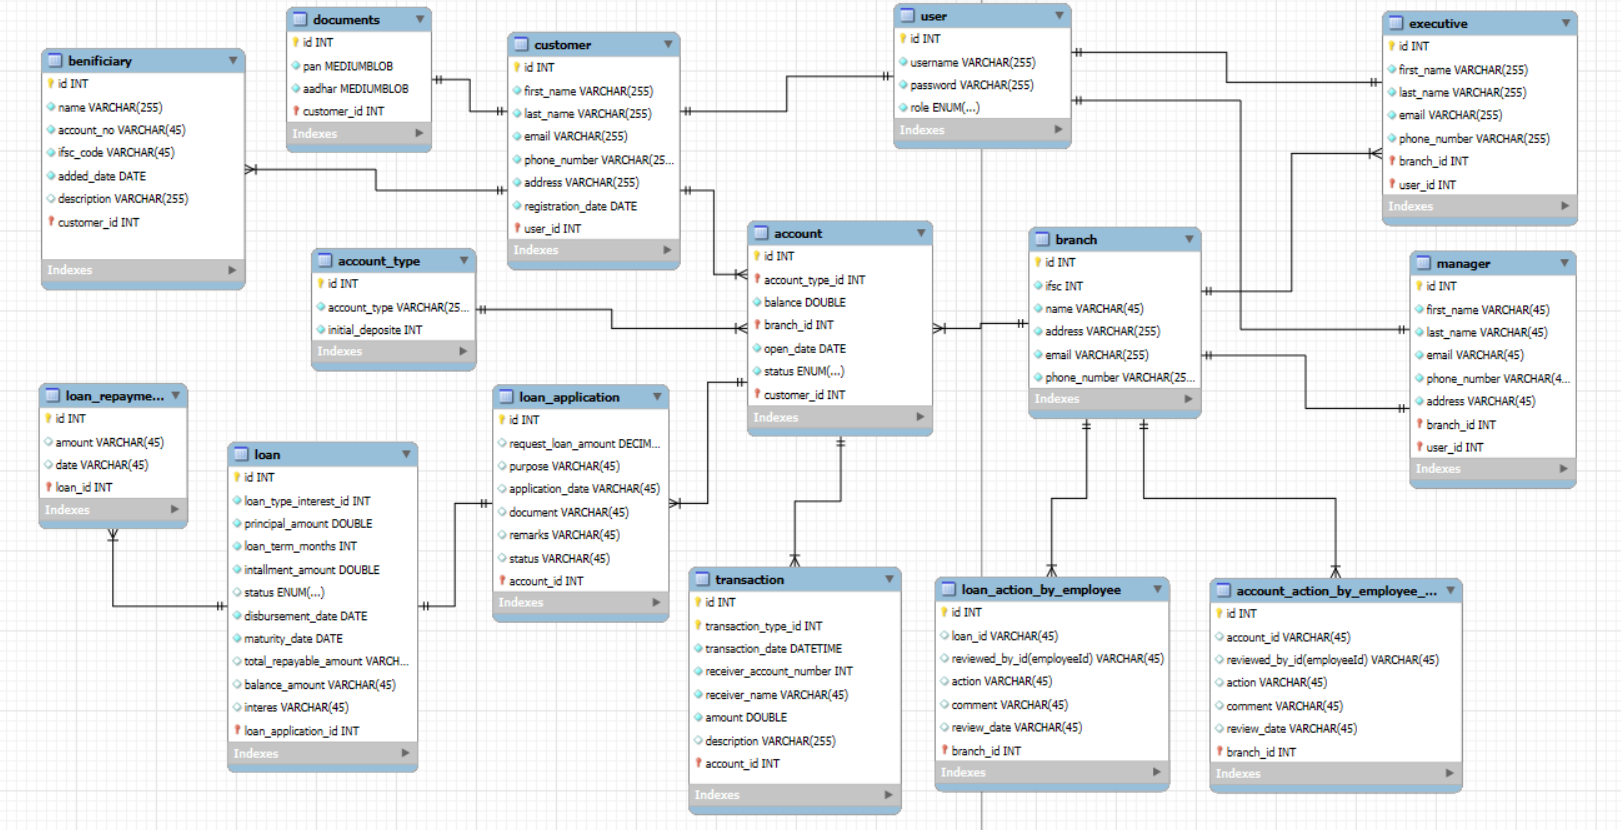
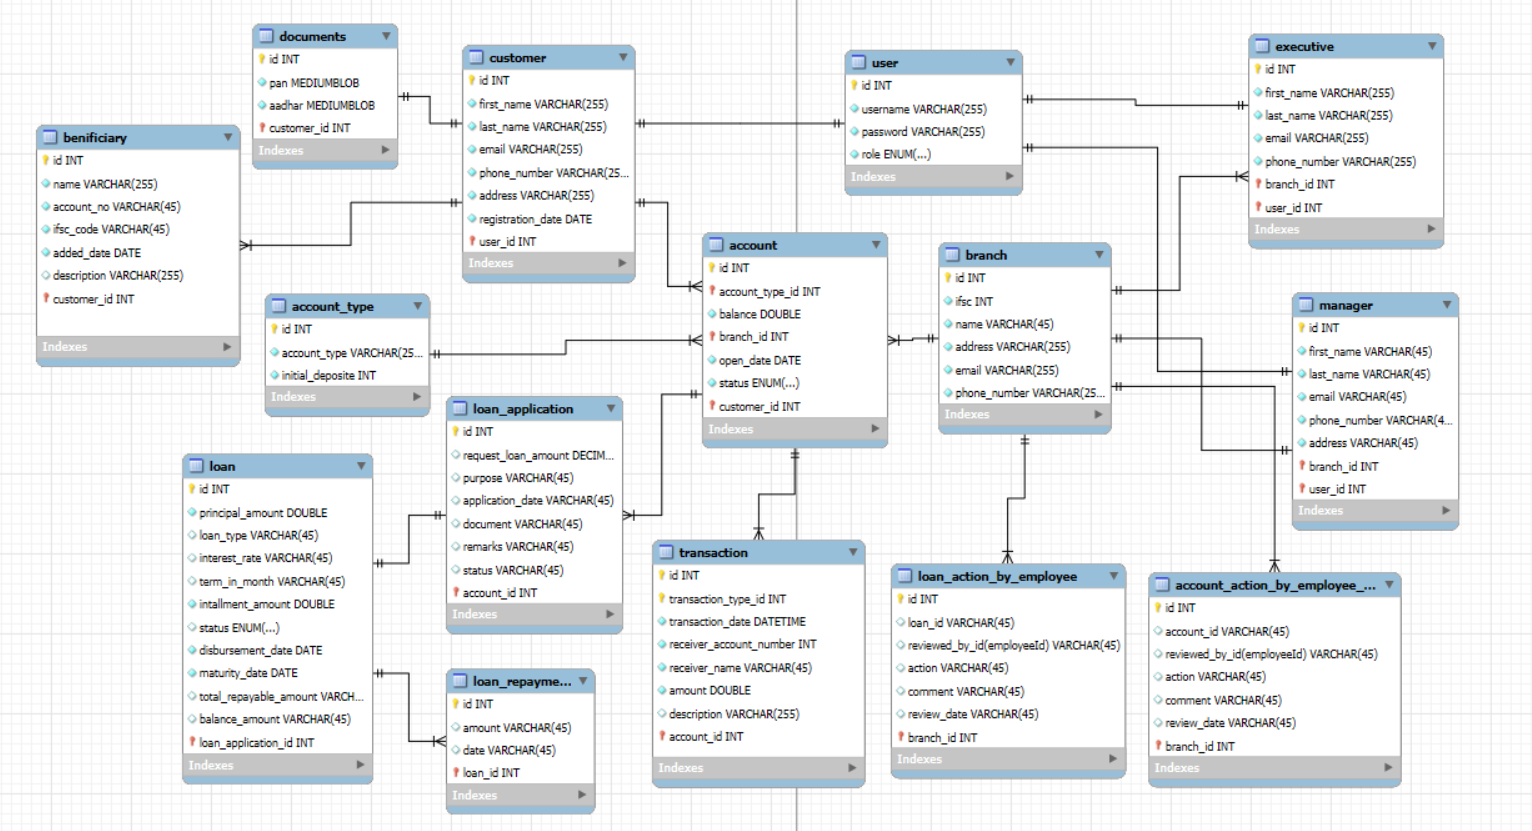
loan-updated

diff --git a/bankDemo/src/main/java/com/springboot/bankDemo/model/Loan.java b/bankDemo/src/main/java/com/springboot/bankDemo/model/Loan.java
@@ -4,6 +4,7 @@ import java.math.BigDecimal;
 import java.time.LocalDate;
 
 import com.springboot.bankDemo.enums.LoanStatus;
+import com.springboot.bankDemo.enums.LoanType;
 
 import jakarta.persistence.Column;
 import jakarta.persistence.Entity;
@@ -24,19 +25,22 @@ public class Loan {
 	private int id;
 	@Column(name = "principal_amount", nullable = false)
 	private BigDecimal principalAmount;
+	@Enumerated(EnumType.STRING)
+	@Column(name = "loan_type", nullable = false)
+	private LoanType loanType;
+	@Column(name = "interest_rate", nullable = false)
+	private BigDecimal interestRate;
+	@Enumerated(EnumType.STRING)
+	@Column(nullable = false)
+	private LoanStatus status;
+	@Column(name = "term_in_month", nullable = false)
+	private int termInMonth;
 	@Column(name = "total_repayable_amount", nullable = false)
 	private BigDecimal totalRepayableAmount;
 	@Column(name = "emi_amount", nullable = false)
 	private BigDecimal emiAmount;
-	@ManyToOne(optional = false)
-	private LoanType loanType;
-	@Enumerated(EnumType.STRING)
-	@Column(nullable = false)
-	private LoanStatus status;
 	@Column(name = "balance_amount", nullable = false)
 	private BigDecimal balanceAmount;
-	@Column(name = "term_in_month", nullable = false)
-	private int termInMonth;
 	@Column(name = "start_date", nullable = false)
 	private LocalDate startDate;
 	@Column(name = "end_date", nullable = false)
@@ -56,6 +60,30 @@ public class Loan {
 	public void setPrincipalAmount(BigDecimal principalAmount) {
 		this.principalAmount = principalAmount;
 	}
+	public LoanType getLoanType() {
+		return loanType;
+	}
+	public void setLoanType(LoanType loanType) {
+		this.loanType = loanType;
+	}
+	public BigDecimal getInterestRate() {
+		return interestRate;
+	}
+	public void setInterestRate(BigDecimal interestRate) {
+		this.interestRate = interestRate;
+	}
+	public LoanStatus getStatus() {
+		return status;
+	}
+	public void setStatus(LoanStatus status) {
+		this.status = status;
+	}
+	public int getTermInMonth() {
+		return termInMonth;
+	}
+	public void setTermInMonth(int termInMonth) {
+		this.termInMonth = termInMonth;
+	}
 	public BigDecimal getTotalRepayableAmount() {
 		return totalRepayableAmount;
 	}
@@ -68,29 +96,11 @@ public class Loan {
 	public void setEmiAmount(BigDecimal emiAmount) {
 		this.emiAmount = emiAmount;
 	}
-	public LoanType getLoanType() {
-		return loanType;
-	}
-	public void setLoanType(LoanType loanType) {
-		this.loanType = loanType;
-	}
-	public LoanStatus getStatus() {
-		return status;
-	}
-	public void setStatus(LoanStatus status) {
-		this.status = status;
-	}
 	public BigDecimal getBalanceAmount() {
 		return balanceAmount;
 	}
 	public void setBalanceAmount(BigDecimal balanceAmount) {
 		this.balanceAmount = balanceAmount;
-	}
-	public int getTermInMonth() {
-		return termInMonth;
-	}
-	public void setTermInMonth(int termInMonth) {
-		this.termInMonth = termInMonth;
 	}
 	public LocalDate getStartDate() {
 		return startDate;

diff --git a/bankDemo/src/main/java/com/springboot/bankDemo/model/LoanApplication.java b/bankDemo/src/main/java/com/springboot/bankDemo/model/LoanApplication.java
@@ -4,6 +4,7 @@ import java.math.BigDecimal;
 import java.time.LocalDate;
 
 import com.springboot.bankDemo.enums.LoanApplicationStatus;
+import com.springboot.bankDemo.enums.LoanType;
 
 import jakarta.persistence.Column;
 import jakarta.persistence.Entity;
@@ -24,7 +25,8 @@ public class LoanApplication {
 	private int id;
 	@Column(name = "required_loan_amount", nullable = false)
 	private BigDecimal requiredLoanAmount;
-	@ManyToOne(optional = false)
+	@Enumerated(EnumType.STRING)
+	@Column(name = "loan_type", nullable = false)
 	private LoanType loanType;
 	@Column(nullable = false)
 	@Enumerated(EnumType.STRING)
@@ -38,21 +40,53 @@ public class LoanApplication {
 	@ManyToOne(optional = false)
 	private Account account;
 	
-	public int getId() { return id; }
-	public void setId(int id) { this.id = id; }
-	public BigDecimal getRequiredLoanAmount() { return requiredLoanAmount; }
-	public void setRequiredLoanAmount(BigDecimal requiredLoanAmount) { this.requiredLoanAmount = requiredLoanAmount; }
-	public LoanType getLoanType() { return loanType; }
-	public void setLoanType(LoanType loanType) { this.loanType = loanType; }
-	public LoanApplicationStatus getStatus() { return status; }
-	public void setStatus(LoanApplicationStatus status) { this.status = status; }
-	public String getRemark() { return remark; }
-	public void setRemark(String remark) { this.remark = remark; }
-	public String getDocument() { return document; }
-	public void setDocument(String document) { this.document = document; }
-	public LocalDate getApplicationDate() { return applicationDate; }
-	public void setApplicationDate(LocalDate applicationDate) { this.applicationDate = applicationDate; }
-	public Account getAccount() { return account; }
-	public void setAccount(Account account) { this.account = account; }
-	
+	public int getId() {
+		return id;
+	}
+	public void setId(int id) {
+		this.id = id;
+	}
+	public BigDecimal getRequiredLoanAmount() {
+		return requiredLoanAmount;
+	}
+	public void setRequiredLoanAmount(BigDecimal requiredLoanAmount) {
+		this.requiredLoanAmount = requiredLoanAmount;
+	}
+	public LoanType getLoanType() {
+		return loanType;
+	}
+	public void setLoanType(LoanType loanType) {
+		this.loanType = loanType;
+	}
+	public LoanApplicationStatus getStatus() {
+		return status;
+	}
+	public void setStatus(LoanApplicationStatus status) {
+		this.status = status;
+	}
+	public String getRemark() {
+		return remark;
+	}
+	public void setRemark(String remark) {
+		this.remark = remark;
+	}
+	public String getDocument() {
+		return document;
+	}
+	public void setDocument(String document) {
+		this.document = document;
+	}
+	public LocalDate getApplicationDate() {
+		return applicationDate;
+	}
+	public void setApplicationDate(LocalDate applicationDate) {
+		this.applicationDate = applicationDate;
+	}
+	public Account getAccount() {
+		return account;
+	}
+	public void setAccount(Account account) {
+		this.account = account;
+	}
+		
 }

diff --git a/bankDemo/src/main/java/com/springboot/bankDemo/service/LoanApplicationService.java b/bankDemo/src/main/java/com/springboot/bankDemo/service/LoanApplicationService.java
@@ -1,0 +1,59 @@
+package com.springboot.bankDemo.service;
+
+import java.time.LocalDate;
+import java.util.Arrays;
+import java.util.List;
+
+import org.springframework.stereotype.Service;
+
+import com.springboot.bankDemo.enums.LoanApplicationStatus;
+import com.springboot.bankDemo.enums.LoanType;
+import com.springboot.bankDemo.model.LoanApplication;
+import com.springboot.bankDemo.repository.LoanApplicationRepository;
+
+@Service
+public class LoanApplicationService {
+
+	private LoanApplicationRepository loanApplicationRepository;
+
+	public LoanApplicationService(LoanApplicationRepository loanApplicationRepository) {
+		this.loanApplicationRepository = loanApplicationRepository;
+	}
+	
+	// post loan application
+	public LoanApplication postLoanApplication(LoanApplication loanApplication) {
+		loanApplication.setStatus(LoanApplicationStatus.PENDING);
+		loanApplication.setApplicationDate(LocalDate.now());
+		return loanApplicationRepository.save(loanApplication);
+	}
+	
+	// change loan application status - cancelled by customer
+	public LoanApplication putLoanApplicationStatusCancelled(int id) {
+		LoanApplication loanApplication = loanApplicationRepository.findById(id).orElseThrow(() -> new RuntimeException("ID is Invalid"));
+		loanApplication.setStatus(LoanApplicationStatus.CANCELLED);
+		return loanApplicationRepository.save(loanApplication);
+	}
+	
+	// change loan application status
+	public LoanApplication putLoanApplicationStatus(int id, String status, String remark) {
+		LoanApplication loanApplication = loanApplicationRepository.findById(id).orElseThrow(() -> new RuntimeException("ID is Invalid"));
+		loanApplication.setStatus(LoanApplicationStatus.valueOf(status));
+		loanApplication.setRemark(remark);
+		return loanApplicationRepository.save(loanApplication);
+	}
+	
+	// 
+	
+	
+	// fetch loan application status
+	public List<String> getLoanApplicationStatus() {
+		List<String> list = Arrays.stream(LoanApplicationStatus.values()).map(l -> l.name()).toList();
+		return list;
+	}
+	
+	// fetch loan type 
+	public List<String> getLoanType() {
+		List<String> list = Arrays.stream(LoanType.values()).map(l -> l.name()).toList();
+		return list;
+	}
+}

diff --git a/bankDemo/src/main/java/com/springboot/bankDemo/repository/LoanApplicationRepository.java b/bankDemo/src/main/java/com/springboot/bankDemo/repository/LoanApplicationRepository.java
@@ -1,0 +1,10 @@
+package com.springboot.bankDemo.repository;
+
+import org.springframework.data.jpa.repository.JpaRepository;
+
+import com.springboot.bankDemo.model.LoanApplication;
+
+public interface LoanApplicationRepository extends JpaRepository<LoanApplication, Integer>{
+
+	
+}

diff --git a/bankDemo/src/main/java/com/springboot/bankDemo/enums/LoanType.java b/bankDemo/src/main/java/com/springboot/bankDemo/enums/LoanType.java
@@ -1,0 +1,10 @@
+package com.springboot.bankDemo.enums;
+
+public enum LoanType {
+
+	PERSONAL,
+	HOME,
+	GOLD,
+	EDUCATION,
+	VEHICAL
+}

diff --git a/bankDemo/src/main/java/com/springboot/bankDemo/controller/LoanApplicationController.java b/bankDemo/src/main/java/com/springboot/bankDemo/controller/LoanApplicationController.java
@@ -1,0 +1,5 @@
+package com.springboot.bankDemo.controller;
+
+public class LoanApplicationController {
+
+}
